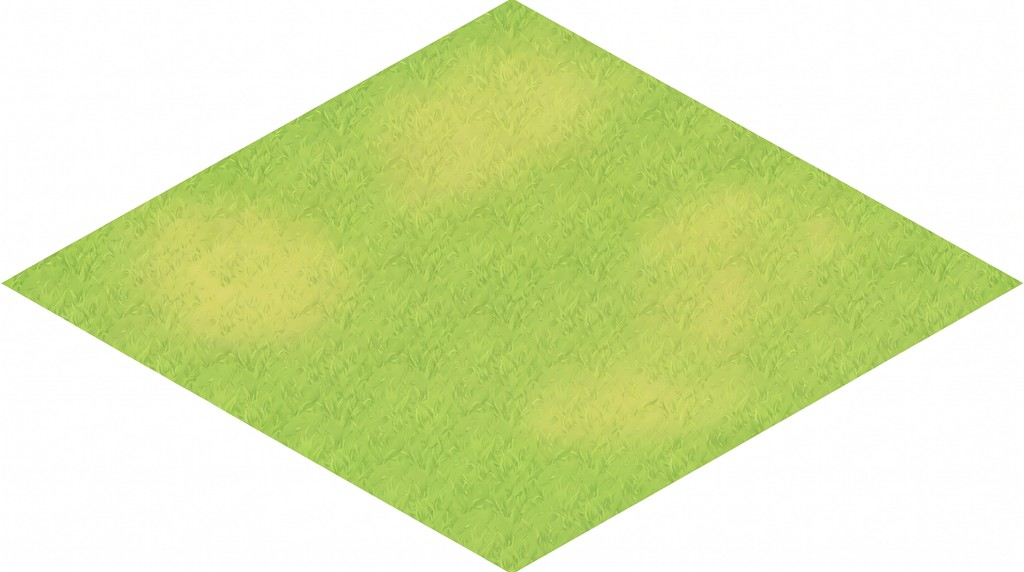
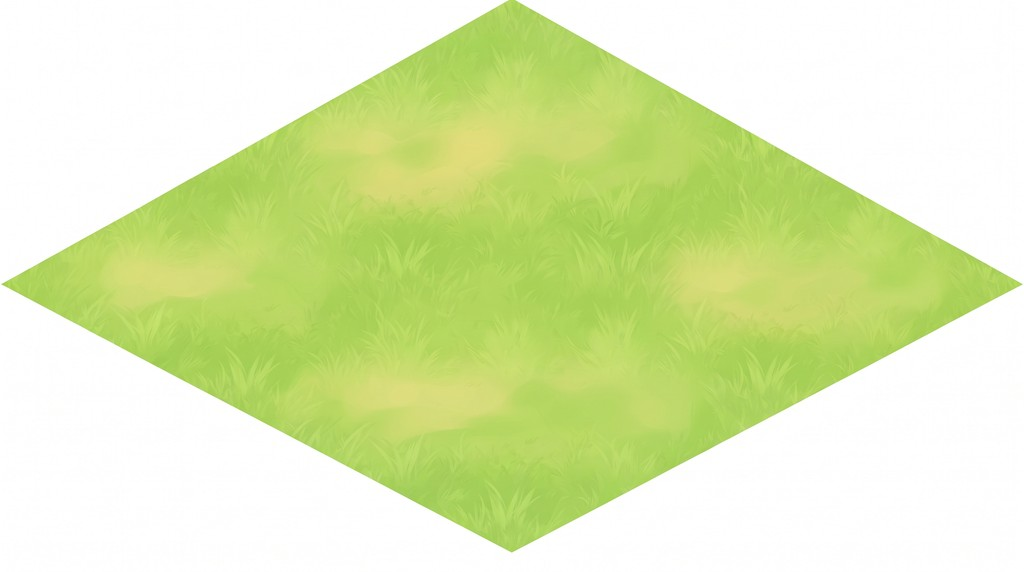
Asker/uretim rozetini birlestir, eski zemine don, objeleri tam ortala, Liderlik ve Raporlari tam ekran modal yap, ust menu kontrastini artir

diff --git a/client/src/App.tsx b/client/src/App.tsx
@@ -348,6 +348,8 @@ export default function App() {
       if (e.key !== "Escape") return;
       setPendingTarget(null);
       setActionMode(null);
+      setShowLeaderboard(false);
+      setShowReports(false);
     }
     window.addEventListener("keydown", onKeyDown);
     return () => window.removeEventListener("keydown", onKeyDown);
@@ -830,20 +832,30 @@ export default function App() {
                         .iso-ground) ki komşu karolar arasında beyaz köşe/dikiş
                         görünmesin. Üstüne serpiştirilmiş hiçbir obje yok. */}
                     <img src={GROUND_TEXTURE} alt="" className="iso-ground" draggable={false} />
-                    {showPuddle && (
-                      <img
-                        src={PUDDLE_TEXTURE}
-                        alt=""
-                        className="iso-puddle"
-                        draggable={false}
-                        style={{
-                          width: tileWidth * 0.6,
-                          height: tileWidth * 0.6 * (248 / 323),
-                          left: tileWidth * 0.2,
-                          top: tileHeight * 0.22,
-                        }}
-                      />
-                    )}
+                    {showPuddle && (() => {
+                      // Eren: "hiçbir yerleştirilen objeyi karelerin dibine
+                      // dayama, ortala" -- kale ile aynı mantık: kutunun
+                      // sol/üst konumu (karo genişliği/yüksekliği - kutu) / 2
+                      // olarak hesaplanıyor, böylece obje her zaman karonun
+                      // TAM ortasında oturuyor (önceki sabit yüzdelik
+                      // ofsetler su birikintisini hafifçe aşağı kaydırıyordu).
+                      const puddleWidth = tileWidth * 0.6;
+                      const puddleHeight = puddleWidth * (248 / 323);
+                      return (
+                        <img
+                          src={PUDDLE_TEXTURE}
+                          alt=""
+                          className="iso-puddle"
+                          draggable={false}
+                          style={{
+                            width: puddleWidth,
+                            height: puddleHeight,
+                            left: (tileWidth - puddleWidth) / 2,
+                            top: (tileHeight - puddleHeight) / 2,
+                          }}
+                        />
+                      );
+                    })()}
                     <div className={`iso-diamond ${selectedTile?.id === tile.id ? "selected" : ""}`} />
                     {showCastle && (
                       <>
@@ -923,11 +935,11 @@ export default function App() {
             <span className="summary-item summary-item-gold">
               🪙 {Math.floor(summary.gold)} <small>(+{summary.goldPerHour}/sa)</small>
             </span>
+            {/* Eren: "Toplam asker ve yanındaki saatlik üretimi birleştir
+                altın yeri gibi olsun" -- artık tek rozette, altınla aynı
+                "toplam (+üretim/sa)" biçiminde. */}
             <span className="summary-item summary-item-troops">
-              ⚔ {totalTroops} <small>toplam asker</small>
-            </span>
-            <span className="summary-item summary-item-production">
-              🛡 +{summary.troopsPerHour}/sa
+              ⚔ {totalTroops} <small>(+{summary.troopsPerHour}/sa)</small>
             </span>
           </div>
         )}
@@ -989,76 +1001,89 @@ export default function App() {
         </div>
       )}
 
+      {/* Eren: "Liderlik panosu öne ayrı ekran olarak çıksın" / "Mesajlar
+          raporlar bölümü de öne ayrı ekran olarak açılsın... profesyonel
+          bir şekilde tasarla" -- bu iki panel artık haritanın üstüne
+          bağlı küçük bir açılır kutu değil, koyu bir arka plan üzerinde
+          ortalanan, kendi başına bir "ekran" gibi tam boy modal. */}
       {showLeaderboard && (
-        <div className="kingdom-dropdown">
-          <div className="tile-card-header">
-            <h2>Liderlik Panosu</h2>
-            <button className="icon-btn" onClick={() => setShowLeaderboard(false)}>✕</button>
-          </div>
-          {!leaderboard ? (
-            <p className="hint">Yükleniyor…</p>
-          ) : (
-            <div className="leaderboard-sections">
-              <div>
-                <h3 className="leaderboard-heading">⚔ En Çok Askere Sahip</h3>
-                {leaderboard.topTroops.length === 0 && <p className="hint">Henüz veri yok.</p>}
-                <ol className="leaderboard-list">
-                  {leaderboard.topTroops.map((e, i) => (
-                    <li key={`troops-${e.username}-${i}`} className="leaderboard-row">
-                      <span className="leaderboard-rank">#{i + 1}</span>
-                      <span className="leaderboard-name">{e.username}</span>
-                      <span className="leaderboard-value">{e.value}</span>
-                    </li>
-                  ))}
-                </ol>
-              </div>
-              <div>
-                <h3 className="leaderboard-heading">🏰 En Çok Kaleye Sahip</h3>
-                {leaderboard.topCastles.length === 0 && <p className="hint">Henüz veri yok.</p>}
-                <ol className="leaderboard-list">
-                  {leaderboard.topCastles.map((e, i) => (
-                    <li key={`castles-${e.username}-${i}`} className="leaderboard-row">
-                      <span className="leaderboard-rank">#{i + 1}</span>
-                      <span className="leaderboard-name">{e.username}</span>
-                      <span className="leaderboard-value">{e.value}</span>
-                    </li>
-                  ))}
-                </ol>
-              </div>
+        <div className="modal-overlay" onClick={() => setShowLeaderboard(false)}>
+          <div className="modal-screen modal-leaderboard" onClick={(e) => e.stopPropagation()}>
+            <div className="modal-header">
+              <h2>🏆 Liderlik Panosu</h2>
+              <button className="icon-btn" onClick={() => setShowLeaderboard(false)}>✕</button>
             </div>
-          )}
+            <div className="modal-body">
+              {!leaderboard ? (
+                <p className="hint">Yükleniyor…</p>
+              ) : (
+                <div className="leaderboard-sections">
+                  <div className="leaderboard-column">
+                    <h3 className="leaderboard-heading">⚔ En Çok Askere Sahip</h3>
+                    {leaderboard.topTroops.length === 0 && <p className="hint">Henüz veri yok.</p>}
+                    <ol className="leaderboard-list">
+                      {leaderboard.topTroops.map((e, i) => (
+                        <li key={`troops-${e.username}-${i}`} className={`leaderboard-row ${i < 3 ? `leaderboard-top leaderboard-top-${i + 1}` : ""}`}>
+                          <span className="leaderboard-rank">#{i + 1}</span>
+                          <span className="leaderboard-name">{e.username}</span>
+                          <span className="leaderboard-value">{e.value}</span>
+                        </li>
+                      ))}
+                    </ol>
+                  </div>
+                  <div className="leaderboard-column">
+                    <h3 className="leaderboard-heading">🏰 En Çok Kaleye Sahip</h3>
+                    {leaderboard.topCastles.length === 0 && <p className="hint">Henüz veri yok.</p>}
+                    <ol className="leaderboard-list">
+                      {leaderboard.topCastles.map((e, i) => (
+                        <li key={`castles-${e.username}-${i}`} className={`leaderboard-row ${i < 3 ? `leaderboard-top leaderboard-top-${i + 1}` : ""}`}>
+                          <span className="leaderboard-rank">#{i + 1}</span>
+                          <span className="leaderboard-name">{e.username}</span>
+                          <span className="leaderboard-value">{e.value}</span>
+                        </li>
+                      ))}
+                    </ol>
+                  </div>
+                </div>
+              )}
+            </div>
+          </div>
         </div>
       )}
 
       {showReports && (
-        <div className="kingdom-dropdown">
-          <div className="tile-card-header">
-            <h2>Mesaj &amp; Raporlar</h2>
-            <button className="icon-btn" onClick={() => setShowReports(false)}>✕</button>
+        <div className="modal-overlay" onClick={() => setShowReports(false)}>
+          <div className="modal-screen modal-reports" onClick={(e) => e.stopPropagation()}>
+            <div className="modal-header">
+              <h2>📨 Mesaj &amp; Raporlar</h2>
+              <button className="icon-btn" onClick={() => setShowReports(false)}>✕</button>
+            </div>
+            <div className="modal-body">
+              <div className="filter-chip-row">
+                <button className={`filter-chip ${reportFilter === "all" ? "active" : ""}`} onClick={() => setReportFilter("all")}>
+                  Tümü
+                </button>
+                <button className={`filter-chip ${reportFilter === "attack" ? "active" : ""}`} onClick={() => setReportFilter("attack")}>
+                  ⚔ Savaş
+                </button>
+                <button className={`filter-chip ${reportFilter === "scout" ? "active" : ""}`} onClick={() => setReportFilter("scout")}>
+                  🔭 Gözcü
+                </button>
+              </div>
+              {filteredReports.length === 0 && <p className="hint">Bu filtrede henüz bir mesaj yok.</p>}
+              <ul className="report-list">
+                {filteredReports.map((r) => (
+                  <li key={r.id} className={`report-row report-${r.type}`}>
+                    <div className="report-row-header">
+                      <span className="report-title">{r.title}</span>
+                      <span className="report-time">{timeAgo(r.createdAt)}</span>
+                    </div>
+                    <p className="report-body">{r.body}</p>
+                  </li>
+                ))}
+              </ul>
+            </div>
           </div>
-          <div className="filter-chip-row">
-            <button className={`filter-chip ${reportFilter === "all" ? "active" : ""}`} onClick={() => setReportFilter("all")}>
-              Tümü
-            </button>
-            <button className={`filter-chip ${reportFilter === "attack" ? "active" : ""}`} onClick={() => setReportFilter("attack")}>
-              ⚔ Savaş
-            </button>
-            <button className={`filter-chip ${reportFilter === "scout" ? "active" : ""}`} onClick={() => setReportFilter("scout")}>
-              🔭 Gözcü
-            </button>
-          </div>
-          {filteredReports.length === 0 && <p className="hint">Bu filtrede henüz bir mesaj yok.</p>}
-          <ul className="report-list">
-            {filteredReports.map((r) => (
-              <li key={r.id} className={`report-row report-${r.type}`}>
-                <div className="report-row-header">
-                  <span className="report-title">{r.title}</span>
-                  <span className="report-time">{timeAgo(r.createdAt)}</span>
-                </div>
-                <p className="report-body">{r.body}</p>
-              </li>
-            ))}
-          </ul>
         </div>
       )}
 

diff --git a/client/src/App.css b/client/src/App.css
@@ -136,10 +136,14 @@ button:disabled {
 /* Kabartma/cilalı buton hissi: üstte parlak vurgu, altta koyu "kenar"
    gölgesi -- basılınca (active/tıklama) o kenar payı azalıp buton bir
    tık aşağı iner, gerçek bir fiziksel düğmeye basılmış gibi. */
+/* Eren: "Üst menüde arkaplan beyaz olduğu için üzerindeki aktif bölümler
+   hafif daha koyu olsunki belirgin olsun" -- üst menü de beyaza yakın
+   olduğundan düğmeler eskiden neredeyse görünmez şekilde beyaz-üstü-beyazdı;
+   dinlenme hâli artık hafif gri tonlu, kenarlık da biraz daha belirgin. */
 .kingdom-toggle {
-  background: linear-gradient(180deg, #ffffff 0%, #eef5fb 100%);
+  background: linear-gradient(180deg, #eef1f5 0%, #dde6ef 100%);
   color: #1f2d3a;
-  border: 1px solid rgba(31, 45, 58, 0.08);
+  border: 1px solid rgba(31, 45, 58, 0.16);
   box-shadow:
     inset 0 1px 0 rgba(255, 255, 255, 0.9),
     0 2px 0 rgba(31, 45, 58, 0.14),
@@ -148,7 +152,7 @@ button:disabled {
 }
 
 .kingdom-toggle:hover {
-  background: linear-gradient(180deg, #ffffff 0%, #e2eefb 100%);
+  background: linear-gradient(180deg, #e4ecf5 0%, #cddcea 100%);
 }
 
 .kingdom-toggle:active {
@@ -206,11 +210,6 @@ button:disabled {
 
 .summary-item-troops {
   background: linear-gradient(180deg, #fff6f4 0%, #fdeee9 100%);
-}
-
-.summary-item-production {
-  background: linear-gradient(180deg, #fffdf5 0%, #fdf3d8 100%);
-  color: #7a5c05;
 }
 
 /* Bildirim/hata banner'ları artık üst menünün altında, ortada yüzen bir
@@ -910,12 +909,84 @@ button:disabled {
   flex-shrink: 0;
 }
 
-/* Liderlik Panosu -- iki ayrı sıralama (asker / kale), her biri numaralı
-   satırlar halinde. */
-.leaderboard-sections {
+/* Eren: "Liderlik panosu öne ayrı ekran olarak çıksın" / "Mesajlar
+   raporlar bölümü de öne ayrı ekran olarak açılsın... profesyonel bir
+   şekilde tasarla" -- ikisi de artık haritanın üstüne koyu bir perde
+   (backdrop) ile açılan, ortalanmış, kendi başına bir "ekran". */
+.modal-overlay {
+  position: fixed;
+  inset: 0;
+  z-index: 60;
+  display: flex;
+  align-items: center;
+  justify-content: center;
+  background: rgba(15, 23, 32, 0.55);
+  backdrop-filter: blur(3px);
+  padding: 32px 16px;
+}
+
+.modal-screen {
+  width: 100%;
+  max-width: 720px;
+  max-height: 86vh;
   display: flex;
   flex-direction: column;
-  gap: 18px;
+  background: linear-gradient(180deg, #ffffff 0%, #f4f8fb 100%);
+  border-radius: 16px;
+  box-shadow: 0 24px 60px rgba(8, 14, 22, 0.45), 0 2px 0 rgba(255, 255, 255, 0.6) inset;
+  overflow: hidden;
+}
+
+.modal-header {
+  display: flex;
+  align-items: center;
+  justify-content: space-between;
+  gap: 12px;
+  padding: 18px 24px;
+  background: linear-gradient(180deg, #22314a 0%, #17233a 100%);
+  color: #fff;
+  flex-shrink: 0;
+}
+
+.modal-header h2 {
+  margin: 0;
+  font-size: 18px;
+  letter-spacing: 0.02em;
+}
+
+.modal-header .icon-btn {
+  color: rgba(255, 255, 255, 0.8);
+  font-size: 16px;
+}
+
+.modal-header .icon-btn:hover {
+  background: rgba(255, 255, 255, 0.15);
+  color: #fff;
+}
+
+.modal-body {
+  padding: 22px 24px 26px;
+  overflow-y: auto;
+}
+
+.modal-leaderboard {
+  max-width: 780px;
+}
+
+.modal-reports {
+  max-width: 620px;
+}
+
+/* Liderlik Panosu -- iki ayrı sıralama (asker / kale), tam ekran modalda
+   artık yan yana iki sütun halinde, ilk üç sıra madalya rengiyle vurgulu. */
+.leaderboard-sections {
+  display: grid;
+  grid-template-columns: 1fr 1fr;
+  gap: 28px;
+}
+
+.leaderboard-column {
+  min-width: 0;
 }
 
 .leaderboard-heading {
@@ -963,6 +1034,45 @@ button:disabled {
 .leaderboard-value {
   font-weight: 800;
   color: #2f78e6;
+}
+
+/* İlk üç sıra: altın/gümüş/bronz vurgusu -- profesyonel bir liderlik
+   panosunun beklenen "podyum" hissi. */
+.leaderboard-top {
+  border: 1px solid transparent;
+}
+
+.leaderboard-top-1 {
+  background: linear-gradient(90deg, #fff6d8 0%, #eef5fb 100%);
+  border-color: #f0c94a;
+}
+
+.leaderboard-top-1 .leaderboard-rank {
+  color: #a8790a;
+}
+
+.leaderboard-top-2 {
+  background: linear-gradient(90deg, #eef1f4 0%, #eef5fb 100%);
+  border-color: #c3ccd4;
+}
+
+.leaderboard-top-2 .leaderboard-rank {
+  color: #6b7684;
+}
+
+.leaderboard-top-3 {
+  background: linear-gradient(90deg, #fbe9dd 0%, #eef5fb 100%);
+  border-color: #dba077;
+}
+
+.leaderboard-top-3 .leaderboard-rank {
+  color: #9c5a2c;
+}
+
+@media (max-width: 620px) {
+  .leaderboard-sections {
+    grid-template-columns: 1fr;
+  }
 }
 
 /* Mesaj & Rapor kutusu -- saldırı sonuçları, gözcü raporları, gözetlendiğine
